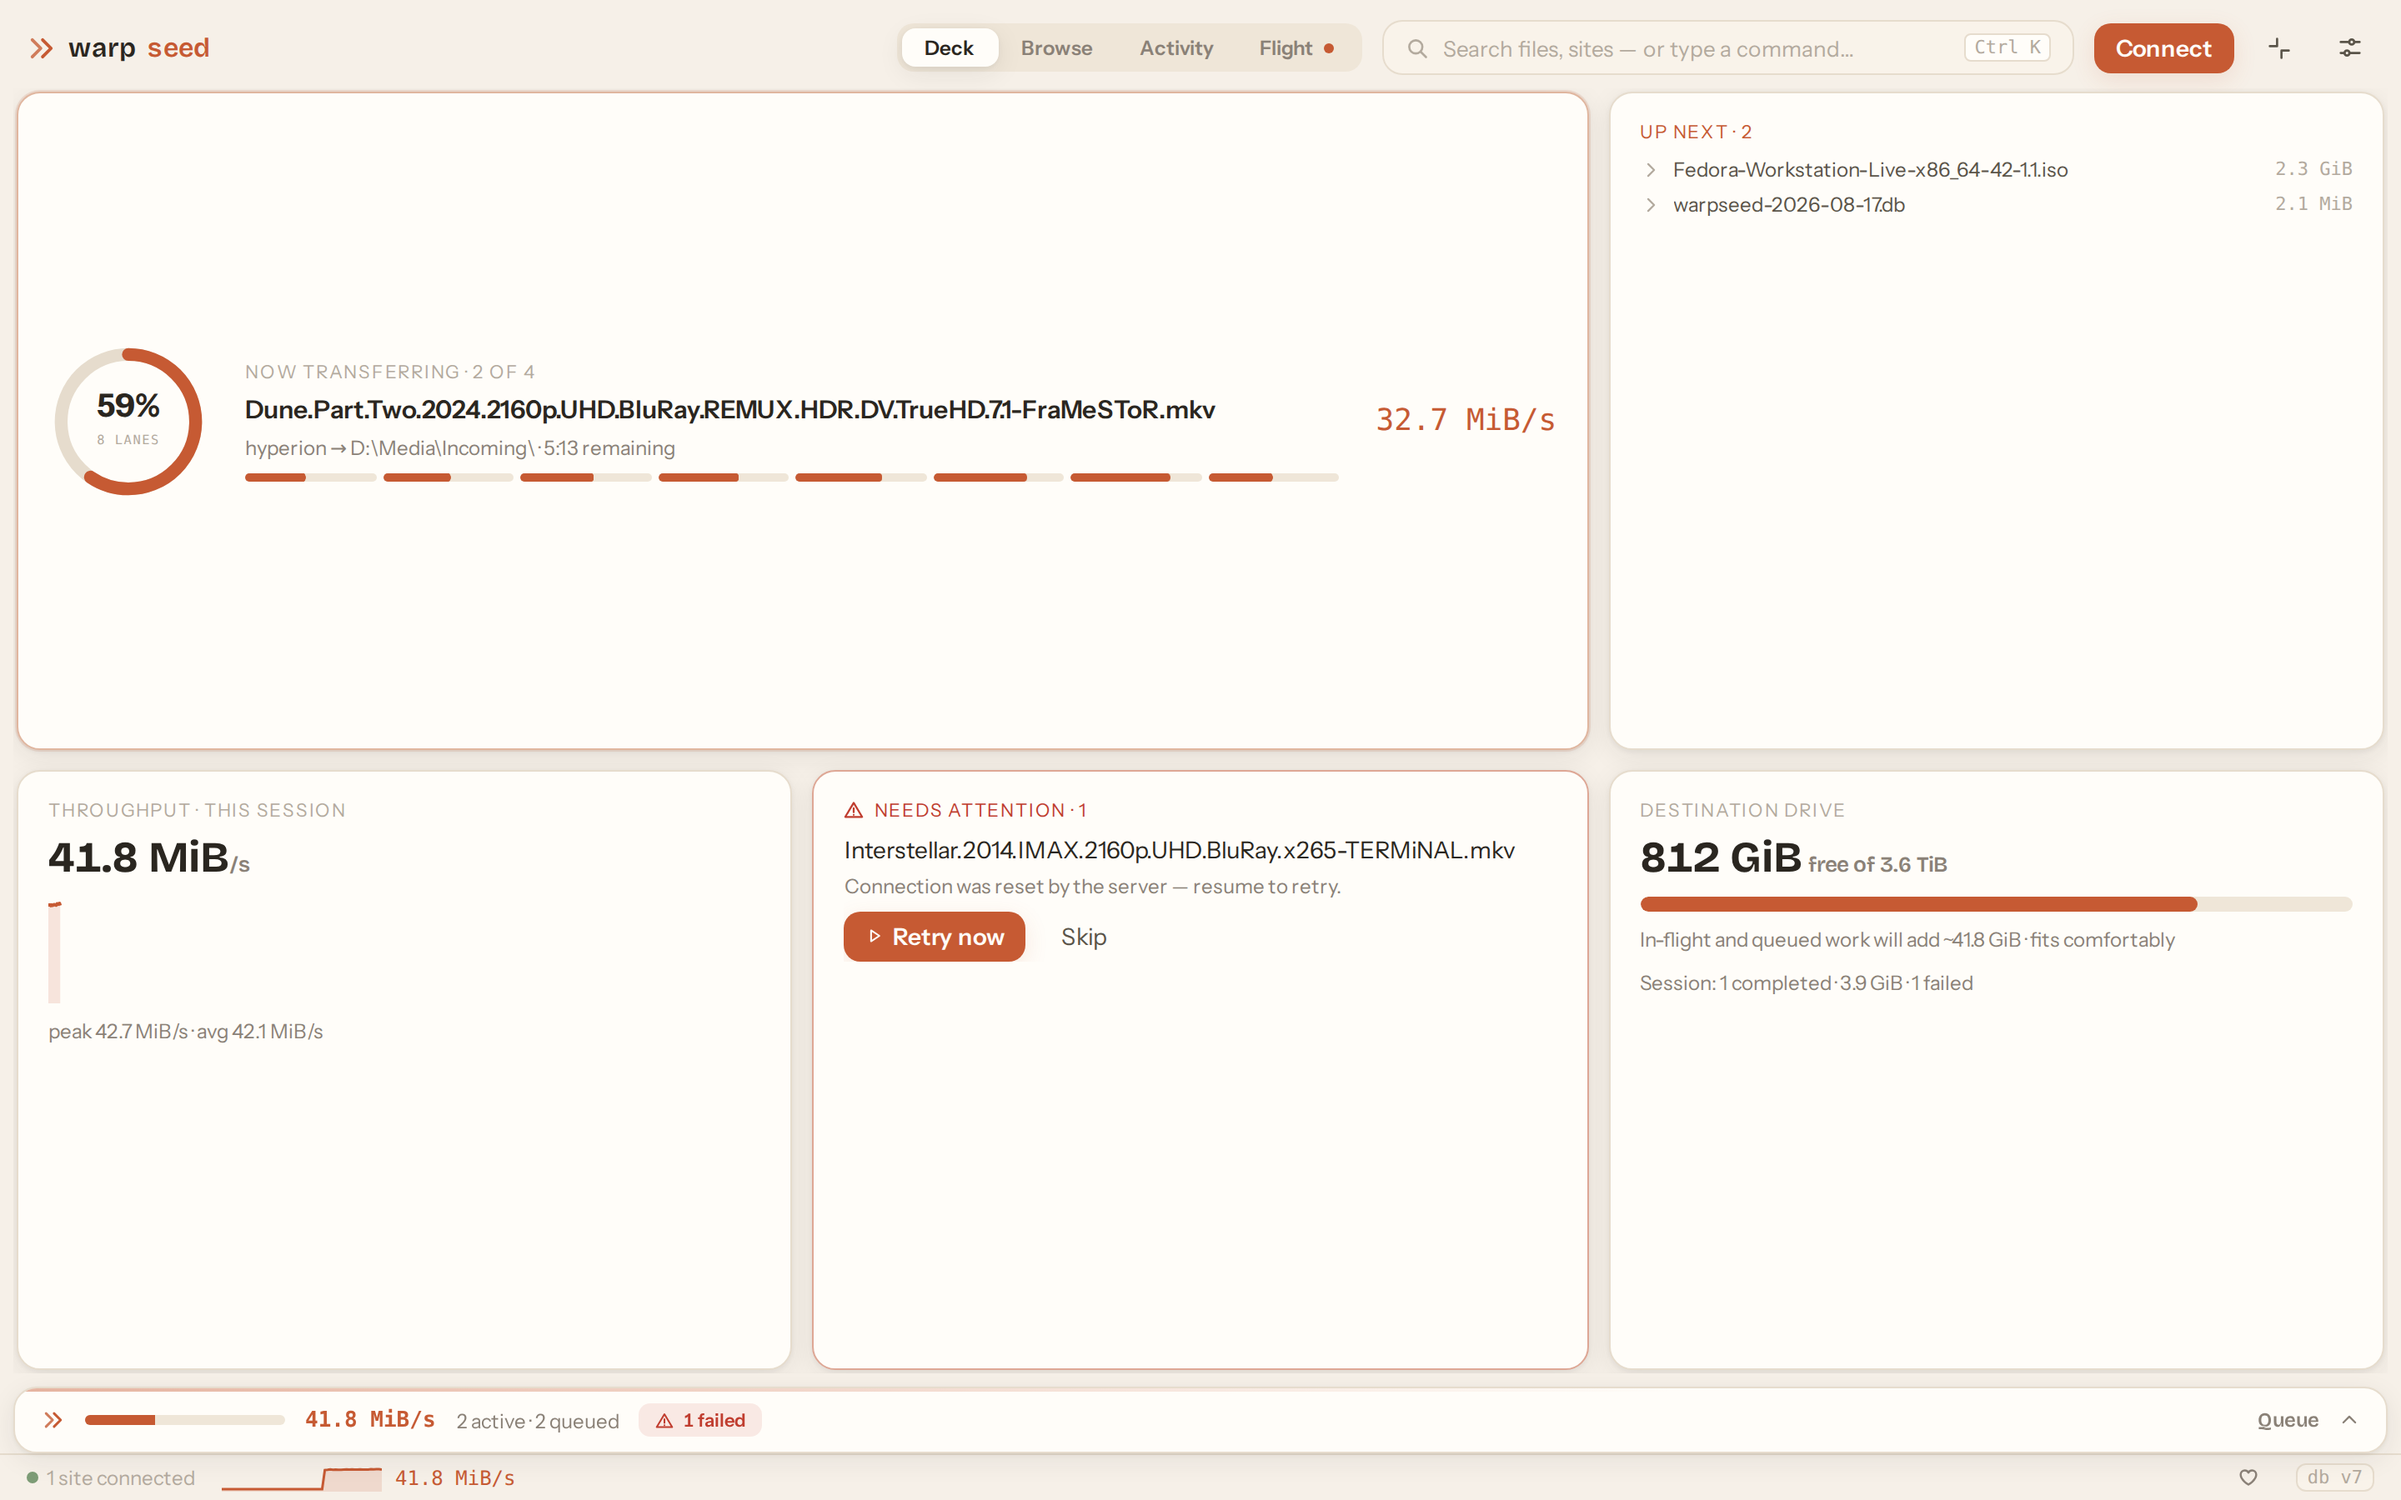
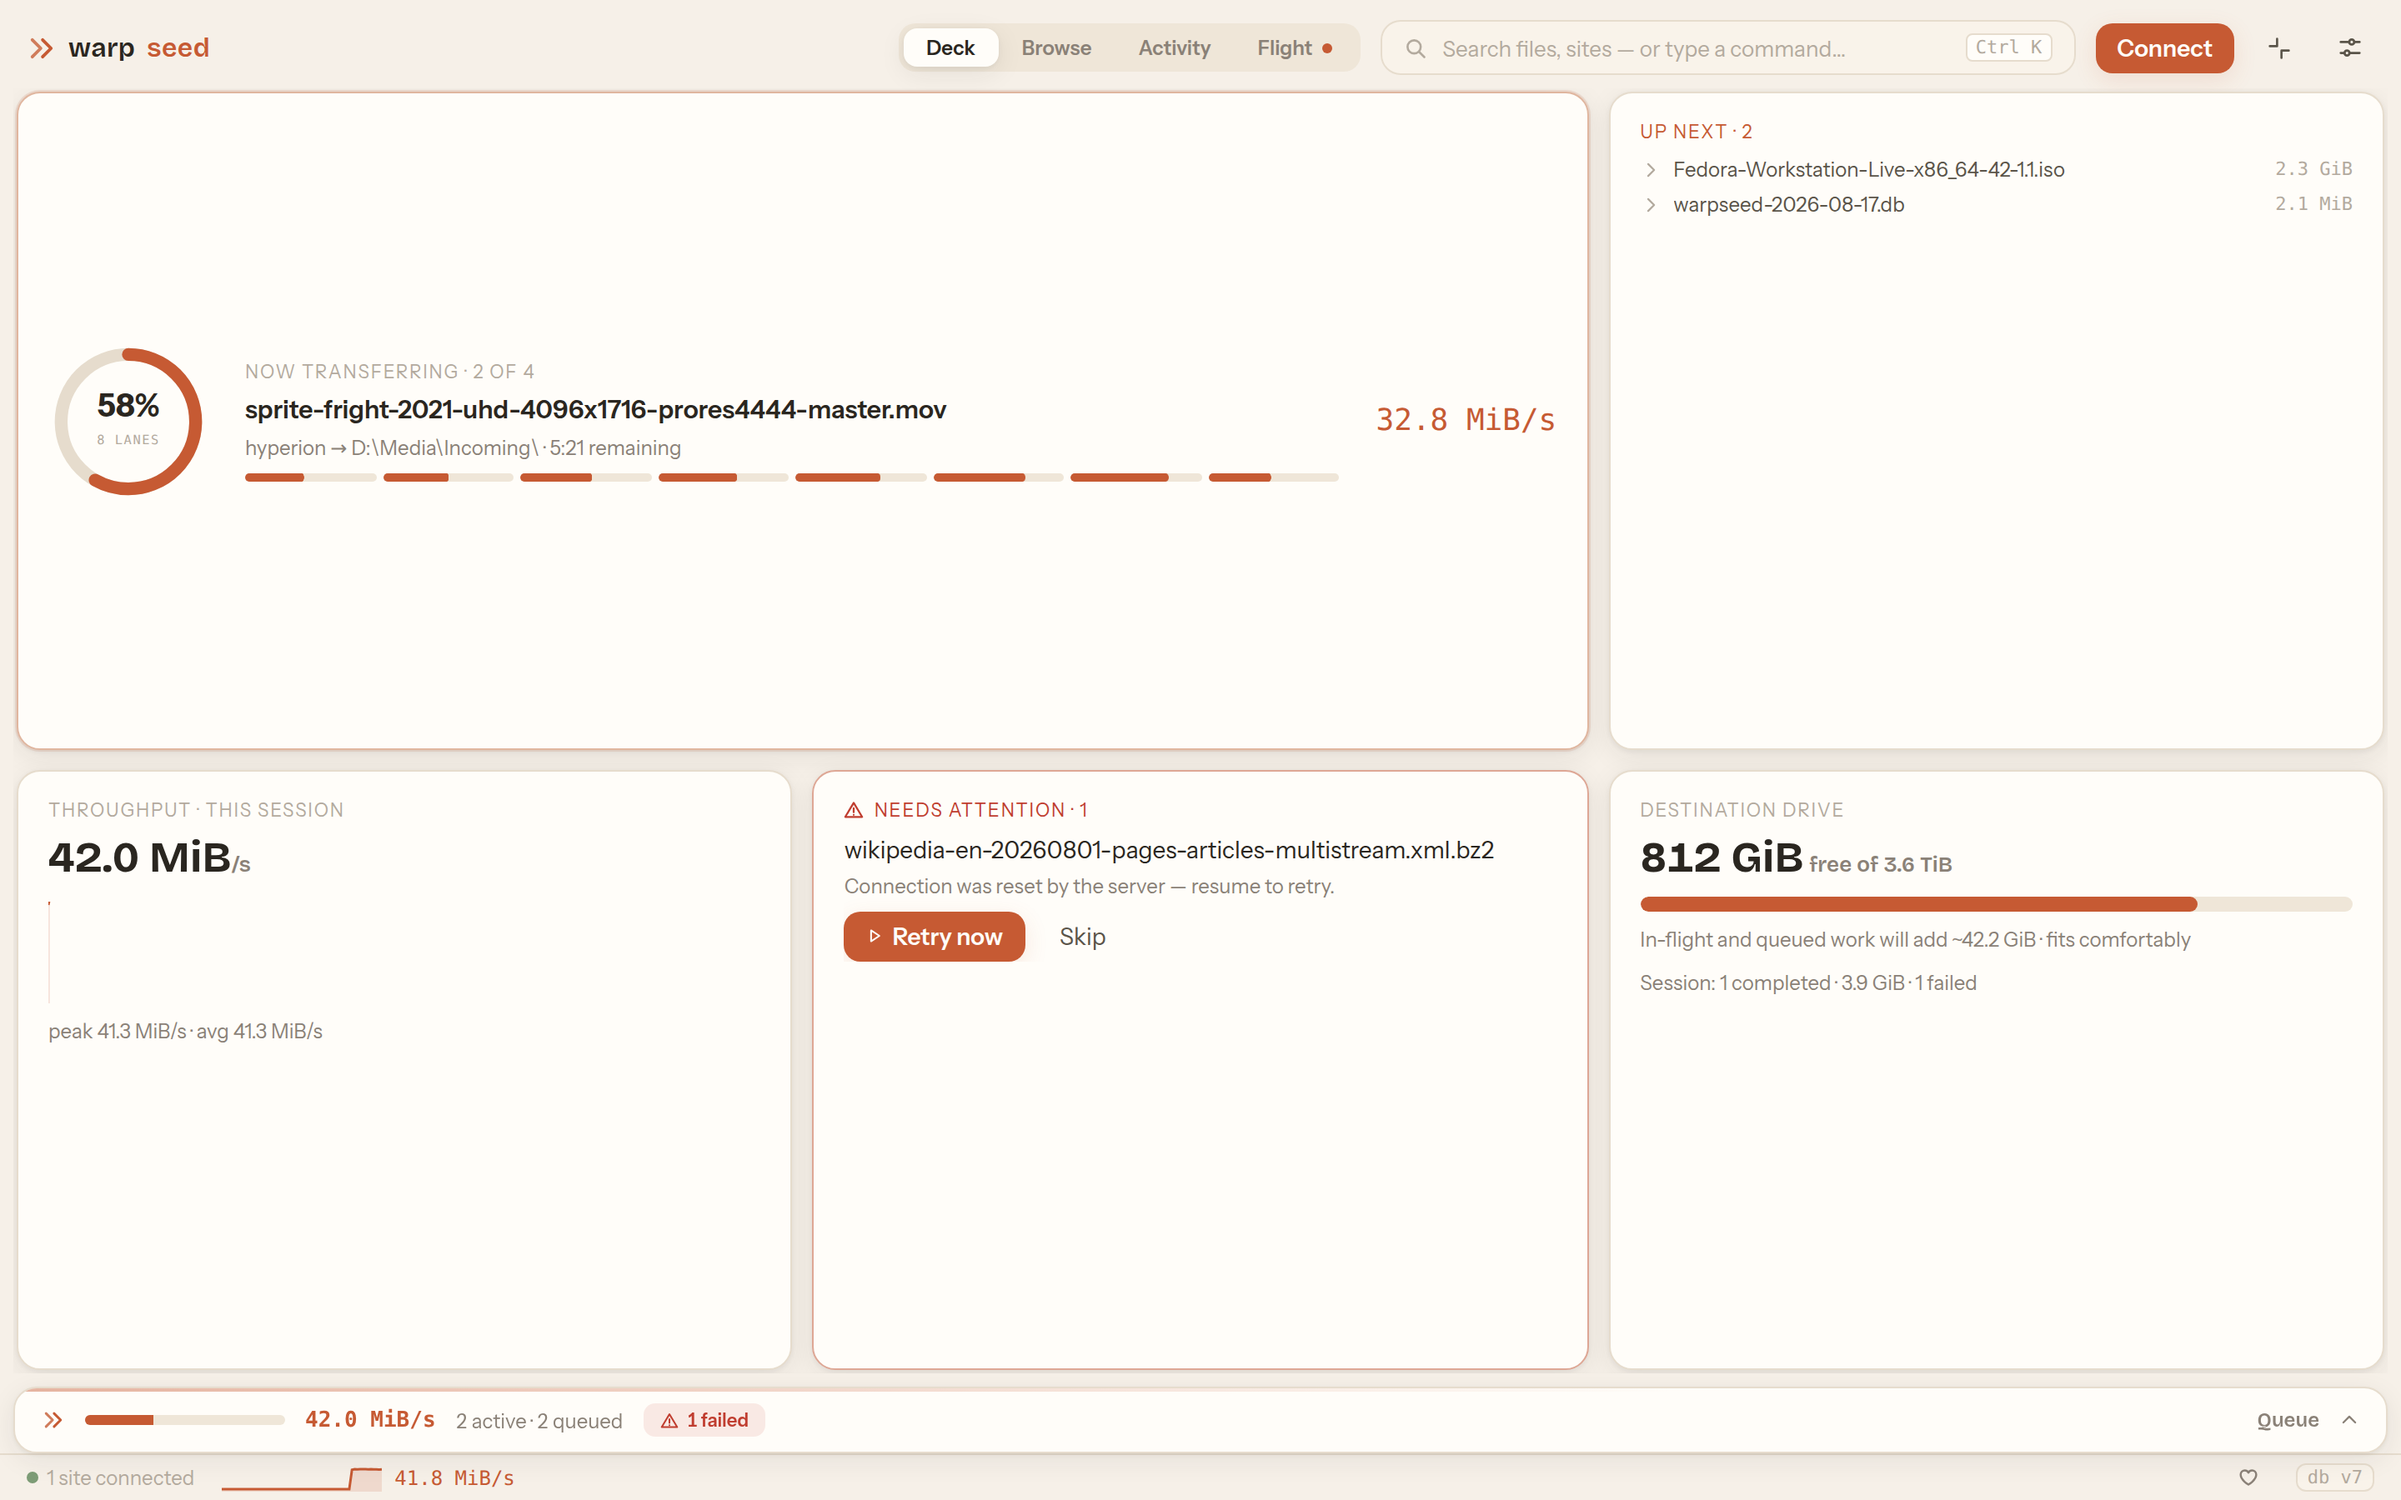
docs: neutral demo dataset for the documentation screenshots
The browser mock backend used scene-release filenames, which put Zyra Labs'
name on screenshots that read as promoting piracy. Replace them with
open-content and infrastructure files — Blender Studio open-movie masters,
a Wikipedia dump, Common Voice dataset parts, Debian cloud images and the
Linux ISOs already present — and swap the two FLAC albums for genuinely
Creative Commons releases.

Every byte size is unchanged, so the documented speeds, percentages, ETAs
and disk figures still line up. All eleven screenshots reshot at 2880x1800.

Claude-Session: https://claude.ai/code/session_01WoxZiCb2Emnz6gbvwopkLq

diff --git a/frontend/src/mock/data.ts b/frontend/src/mock/data.ts
@@ -74,21 +74,21 @@ const file = (name: string, size: number, minsAgo: number, mode = "-rw-r--r--"):
 });
 
 const REMOTE_DOWNLOADS: FsEntry[] = [
-  dir("Andor.S02.2160p.DSNP.WEB-DL.DDP5.1.DV.HDR.H.265-FLUX", 60 * 30),
-  dir("Severance.S02.1080p.ATVP.WEB-DL.DDP5.1.Atmos.H.264-FLUX", 60 * 55),
-  dir("The.Bear.S03.1080p.WEB-DL.DDP5.1.H.264-NTb", 60 * 24 * 2),
+  dir("blender-open-movies", 60 * 30),
+  dir("datasets", 60 * 55),
+  dir("vm-images", 60 * 24 * 2),
   dir("linux-isos", 60 * 24 * 6),
   dir("music", 60 * 24 * 14),
-  file("Dune.Part.Two.2024.2160p.UHD.BluRay.REMUX.HDR.DV.TrueHD.7.1-FraMeSToR.mkv", 24.6 * GiB, 60 * 3),
-  file("Dune.Part.Two.2024.2160p.UHD.BluRay.REMUX.HDR.DV.TrueHD.7.1-FraMeSToR.nfo", 6.2 * KiB, 60 * 3),
-  file("Oppenheimer.2023.1080p.BluRay.x264-SPARKS.mkv", 14.1 * GiB, 60 * 26),
-  file("Interstellar.2014.IMAX.2160p.UHD.BluRay.x265-TERMiNAL.mkv", 31.4 * GiB, 60 * 24 * 3),
-  file("Past.Lives.2023.1080p.WEB.H264-CUPCAKES.mkv", 5.9 * GiB, 60 * 24 * 4),
+  file("sprite-fright-2021-uhd-4096x1716-prores4444-master.mov", 24.6 * GiB, 60 * 3),
+  file("sprite-fright-2021-uhd-4096x1716-prores4444-master.mov.torrent", 6.2 * KiB, 60 * 3),
+  file("cosmos-laundromat-2015-uhd-dnxhr-hqx-master.mov", 14.1 * GiB, 60 * 26),
+  file("wikipedia-en-20260801-pages-articles-multistream.xml.bz2", 31.4 * GiB, 60 * 24 * 3),
+  file("tears-of-steel-2012-1080p-prores-master.mov", 5.9 * GiB, 60 * 24 * 4),
   file("ubuntu-24.04.3-live-server-amd64.iso", 3.1 * GiB, 60 * 7),
   file("Fedora-Workstation-Live-x86_64-42-1.1.iso", 2.3 * GiB, 60 * 11),
   file("debian-13.0.0-amd64-DVD-1.iso", 3.9 * GiB, 60 * 24),
   file("archlinux-2026.08.01-x86_64.iso", 1.2 * GiB, 60 * 24 * 5),
-  file("Big.Buck.Bunny.2008.1080p.BluRay.x264-SAMPLE.mkv", 691 * MiB, 60 * 24 * 12),
+  file("big-buck-bunny-2008-1080p-h264.mp4", 691 * MiB, 60 * 24 * 12),
   file("SHA256SUMS", 1.1 * KiB, 60 * 24),
   file("SHA256SUMS.gpg", 833, 60 * 24),
   file(".rtorrent.session.lock", 0, 2, "-rw-------"),
@@ -111,9 +111,14 @@ const REMOTE_HOME: FsEntry[] = [
   file(".profile", 807, 60 * 24 * 40),
 ];
 
-const REMOTE_SEASON = (n: number, minsAgo: number): FsEntry[] =>
+const REMOTE_PARTS = (stem: string, ext: string, n: number, minsAgo: number): FsEntry[] =>
   Array.from({ length: n }, (_, i) =>
-    file(`Episode.S0${1 + Math.floor(i / 12)}E${String((i % 12) + 1).padStart(2, "0")}.mkv`, (2.4 + (i % 3) * 0.35) * GiB, minsAgo + i * 30),
+    file(`${stem}.part${String(i + 1).padStart(2, "0")}.${ext}`, (2.4 + (i % 3) * 0.35) * GiB, minsAgo + i * 30),
+  );
+
+const VM_IMAGES = (n: number, minsAgo: number): FsEntry[] =>
+  Array.from({ length: n }, (_, i) =>
+    file(`debian-13-cloud-amd64-202608${String(i + 1).padStart(2, "0")}.qcow2`, (2.4 + (i % 3) * 0.35) * GiB, minsAgo + i * 30),
   );
 
 /** Remote tree by site id then POSIX path. */
@@ -124,17 +129,17 @@ export const REMOTE: Record<number, Record<string, FsEntry[]>> = {
     "/home/seedling": REMOTE_HOME,
     "/home/seedling/downloads": REMOTE_DOWNLOADS,
     "/home/seedling/downloads/linux-isos": REMOTE_LINUX,
-    "/home/seedling/downloads/Andor.S02.2160p.DSNP.WEB-DL.DDP5.1.DV.HDR.H.265-FLUX": [
+    "/home/seedling/downloads/blender-open-movies": [
       ...Array.from({ length: 12 }, (_, i) =>
-        file(`Andor.S02E${String(i + 1).padStart(2, "0")}.2160p.DSNP.WEB-DL.DDP5.1.DV.HDR.H.265-FLUX.mkv`, (4.1 + (i % 4) * 0.3) * GiB, 60 * 30 + i * 10),
+        file(`sprite-fright-shot-${String(i + 1).padStart(3, "0")}-openexr-frames.tar`, (4.1 + (i % 4) * 0.3) * GiB, 60 * 30 + i * 10),
       ),
-      file("Andor.S02.nfo", 4.4 * KiB, 60 * 30),
+      file("sprite-fright-credits-CC-BY.txt", 4.4 * KiB, 60 * 30),
     ],
-    "/home/seedling/downloads/Severance.S02.1080p.ATVP.WEB-DL.DDP5.1.Atmos.H.264-FLUX": REMOTE_SEASON(10, 60 * 55),
-    "/home/seedling/downloads/The.Bear.S03.1080p.WEB-DL.DDP5.1.H.264-NTb": REMOTE_SEASON(10, 60 * 24 * 2),
+    "/home/seedling/downloads/datasets": REMOTE_PARTS("common-voice-en-delta-21.0", "tar", 10, 60 * 55),
+    "/home/seedling/downloads/vm-images": VM_IMAGES(10, 60 * 24 * 2),
     "/home/seedling/downloads/music": [
-      dir("Khruangbin - A LA SALA (2024) [FLAC]", 60 * 24 * 14),
-      dir("Boards of Canada - Music Has the Right to Children (1998) [FLAC]", 60 * 24 * 20),
+      dir("Nine Inch Nails - Ghosts I-IV (2008) [CC BY-NC-SA FLAC]", 60 * 24 * 14),
+      dir("Chad Crouch - Arps (2019) [CC BY-NC FLAC]", 60 * 24 * 20),
     ],
     "/home/seedling/files": [dir("backups", 60 * 24)],
     "/home/seedling/watch": [],
@@ -171,21 +176,21 @@ export const LOCAL: Record<string, FsEntry[]> = {
   "D:\\": [dir("Media", 60 * 5), dir("Backups", 60 * 24 * 7), dir("Games", 60 * 24 * 30)],
   "D:\\Media": [dir("Incoming", 60 * 5), dir("Movies", 60 * 24 * 2), dir("TV", 60 * 24 * 2), dir("Music", 60 * 24 * 14)],
   "D:\\Media\\Incoming": [
-    dir("Severance.S02.1080p.ATVP.WEB-DL.DDP5.1.Atmos.H.264-FLUX", 60 * 40),
+    dir("datasets", 60 * 40),
     dir("linux-isos", 60 * 24),
-    file("Dune.Part.Two.2024.2160p.UHD.BluRay.REMUX.HDR.DV.TrueHD.7.1-FraMeSToR.mkv.part", 14.3 * GiB, 0),
+    file("sprite-fright-2021-uhd-4096x1716-prores4444-master.mov.part", 14.3 * GiB, 0),
     file("debian-13.0.0-amd64-DVD-1.iso", 3.9 * GiB, 38),
-    file("Past.Lives.2023.1080p.WEB.H264-CUPCAKES.mkv", 5.9 * GiB, 60 * 24 * 3),
-    file("Big.Buck.Bunny.2008.1080p.BluRay.x264-SAMPLE.mkv", 691 * MiB, 60 * 24 * 11),
+    file("tears-of-steel-2012-1080p-prores-master.mov", 5.9 * GiB, 60 * 24 * 3),
+    file("big-buck-bunny-2008-1080p-h264.mp4", 691 * MiB, 60 * 24 * 11),
     file("SHA256SUMS", 1.1 * KiB, 38),
   ],
   "D:\\Media\\Incoming\\linux-isos": [
     file("archlinux-2026.08.01-x86_64.iso", 1.2 * GiB, 60 * 24 * 4),
     file("nixos-minimal-25.05-x86_64-linux.iso", 1.1 * GiB, 60 * 24 * 8),
   ],
-  "D:\\Media\\Incoming\\Severance.S02.1080p.ATVP.WEB-DL.DDP5.1.Atmos.H.264-FLUX": REMOTE_SEASON(10, 60 * 40),
-  "D:\\Media\\Movies": [dir("Oppenheimer (2023)", 60 * 24 * 2), dir("Past Lives (2023)", 60 * 24 * 3)],
-  "D:\\Media\\TV": [dir("Andor", 60 * 24 * 2), dir("Severance", 60 * 24 * 2)],
+  "D:\\Media\\Incoming\\datasets": REMOTE_PARTS("common-voice-en-delta-21.0", "tar", 10, 60 * 40),
+  "D:\\Media\\Movies": [dir("Blender Open Movies", 60 * 24 * 2), dir("Public Domain", 60 * 24 * 3)],
+  "D:\\Media\\TV": [dir("Documentaries", 60 * 24 * 2), dir("Conference Talks", 60 * 24 * 2)],
   "D:\\Media\\Music": [],
   "D:\\Backups": [file("warpseed-2026-08-17.db", 2.1 * MiB, 60 * 24 * 7)],
   "D:\\Games": [],
@@ -240,8 +245,8 @@ export const TRANSFERS: Transfer[] = [
     siteId: 1,
     engine: "sftpfast",
     direction: "download",
-    src: "/home/seedling/downloads/Dune.Part.Two.2024.2160p.UHD.BluRay.REMUX.HDR.DV.TrueHD.7.1-FraMeSToR.mkv",
-    dst: "D:\\Media\\Incoming\\Dune.Part.Two.2024.2160p.UHD.BluRay.REMUX.HDR.DV.TrueHD.7.1-FraMeSToR.mkv",
+    src: "/home/seedling/downloads/sprite-fright-2021-uhd-4096x1716-prores4444-master.mov",
+    dst: "D:\\Media\\Incoming\\sprite-fright-2021-uhd-4096x1716-prores4444-master.mov",
     size: Math.round(24.6 * GiB),
     state: "active",
     priority: 0,
@@ -274,8 +279,8 @@ export const TRANSFERS: Transfer[] = [
     siteId: 1,
     engine: "sftpfast",
     direction: "download",
-    src: "/home/seedling/downloads/The.Bear.S03.1080p.WEB-DL.DDP5.1.H.264-NTb/Episode.S01E04.mkv",
-    dst: "D:\\Media\\Incoming\\The.Bear.S03.1080p.WEB-DL.DDP5.1.H.264-NTb\\Episode.S01E04.mkv",
+    src: "/home/seedling/downloads/vm-images/debian-13-cloud-amd64-20260804.qcow2",
+    dst: "D:\\Media\\Incoming\\vm-images\\debian-13-cloud-amd64-20260804.qcow2",
     size: Math.round(2.9 * GiB),
     state: "paused",
     priority: 0,
@@ -342,8 +347,8 @@ export const TRANSFERS: Transfer[] = [
     siteId: 1,
     engine: "sftpfast",
     direction: "download",
-    src: "/home/seedling/downloads/Interstellar.2014.IMAX.2160p.UHD.BluRay.x265-TERMiNAL.mkv",
-    dst: "D:\\Media\\Incoming\\Interstellar.2014.IMAX.2160p.UHD.BluRay.x265-TERMiNAL.mkv",
+    src: "/home/seedling/downloads/wikipedia-en-20260801-pages-articles-multistream.xml.bz2",
+    dst: "D:\\Media\\Incoming\\wikipedia-en-20260801-pages-articles-multistream.xml.bz2",
     size: Math.round(31.4 * GiB),
     state: "failed",
     priority: 0,
